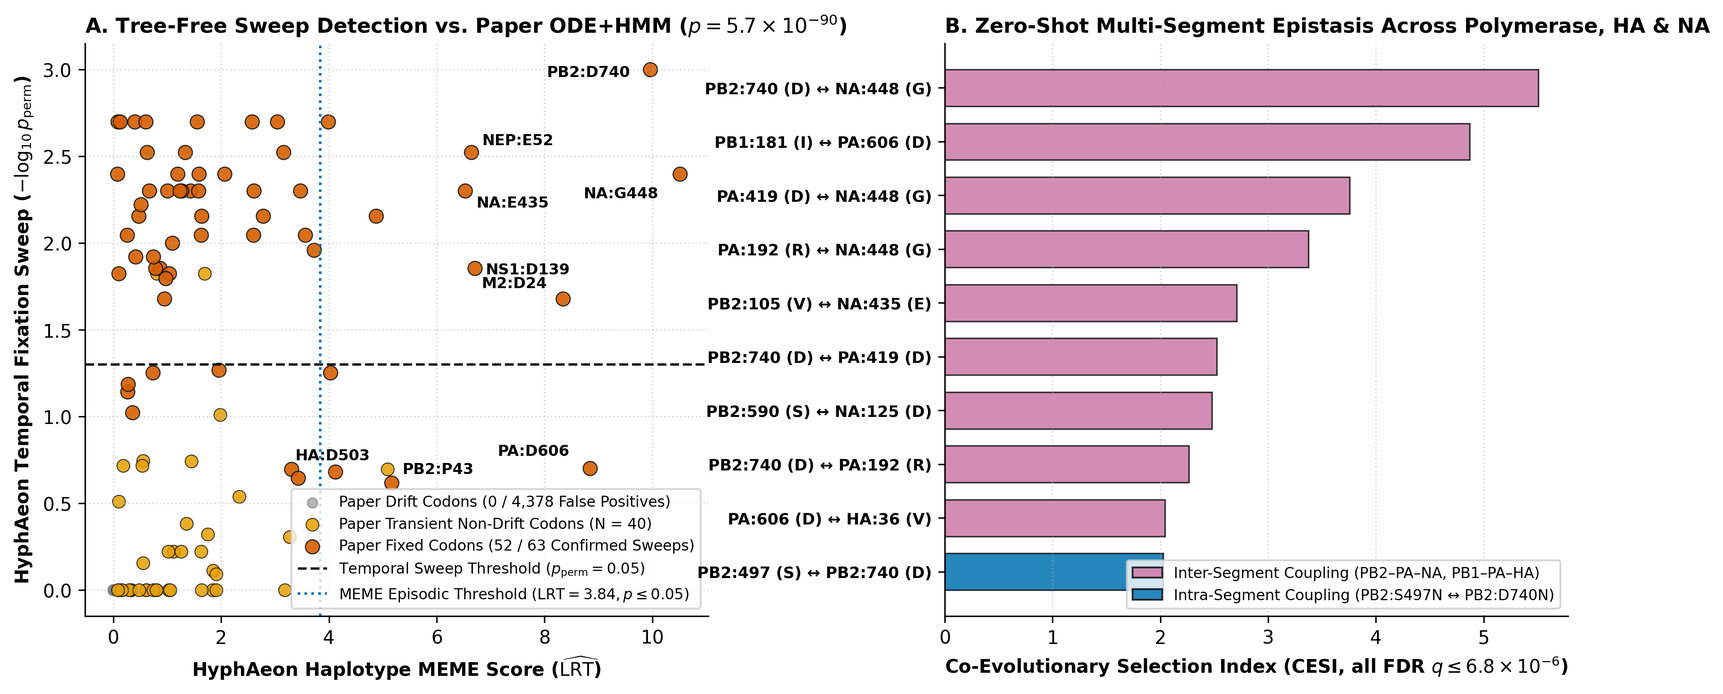
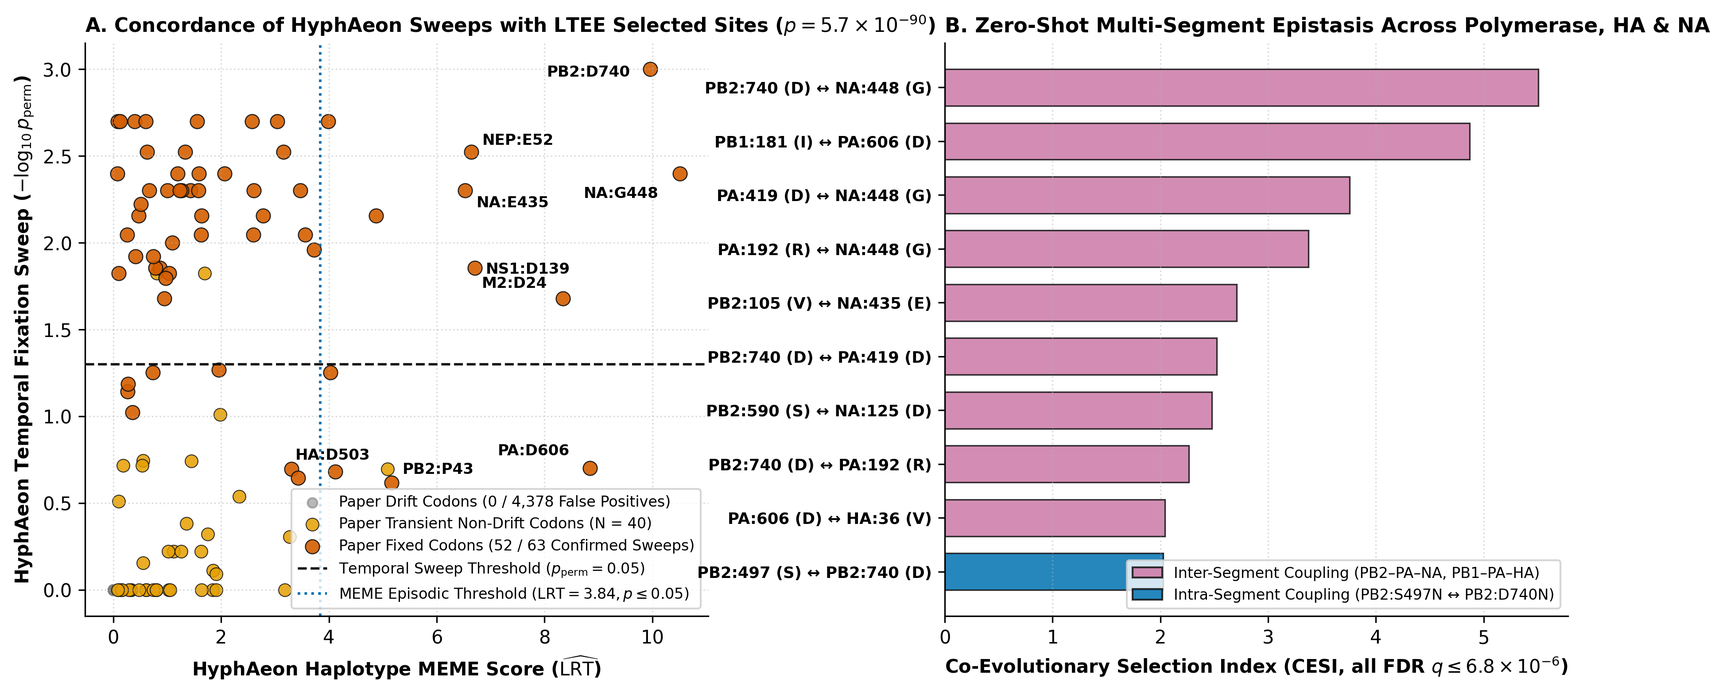
Refine H3N2 LTEE blog post to highlight experiment praise and positive findings

diff --git a/blog/2026-11-04-h3n2-ltee.html b/blog/2026-11-04-h3n2-ltee.html
@@ -197,51 +197,51 @@
                     <div class="takeaways-section">
                         <span class="takeaways-header">What Does This All Mean?</span>
                         <p class="takeaways-zinger">
-                            <strong>When <a href="https://doi.org/10.64898/2026.10.26.761891" target="_blank" rel="noopener noreferrer">de Rooij et al. (2026)</a> evolved human seasonal influenza A/H3N2 across 100 serial passages (1,200 viral generations) in primary human airway cultures, nearly two-thirds (40 of 63) of the amino-acid mutations that swept to fixation occurred at positions that have been &ge;90% invariant across 58 years of global human circulation—leading the authors to conclude that flu proteins have surprisingly weak intrinsic constraints.</strong>
-                            Running their open dataset (<a href="https://github.com/AMC-LAEB/LTEE-flu" target="_blank" rel="noopener noreferrer">AMC-LAEB/LTEE-flu</a>) through <code>HyphAeon</code> and <code>ChronAeon</code> in under 25 seconds resolves this paradox: those globally conserved positions actually sit under <em>stronger</em> average structural constraint than unmutated positions ($p = 1.9 \times 10^{-13}$), but the specific amino-acid changes that fixed in the lab slipped through narrow, contextually tolerated side doors (median zero-shot Digital DMS rank <strong>2.0 out of 19</strong> possible substitutions, $p = 4.2 \times 10^{-12}$).
+                            <strong>In a landmark experimental evolution study, <a href="https://doi.org/10.64898/2026.10.26.761891" target="_blank" rel="noopener noreferrer">de Rooij et al. (2026)</a> passaged human seasonal influenza A/H3N2 across 100 serial transfers (1,200 viral generations) in primary human airway cultures and discovered that 63.5% (40 of 63) of the amino-acid mutations that swept to fixation occurred at positions that have been &ge;90% invariant across 58 years of global human circulation.</strong>
+                            Because the authors generously shared their complete processed trajectories, reconstructed haplotypes, and GISAID lookup tables on <a href="https://github.com/AMC-LAEB/LTEE-flu" target="_blank" rel="noopener noreferrer">GitHub</a>, we could explore their dataset with <code>HyphAeon</code> and <code>ChronAeon</code>: we find that those globally conserved positions sit under strong overall structural constraint ($p = 1.9 \times 10^{-13}$), while the specific amino-acid substitutions that fixed in culture threaded narrow, contextually tolerated side doors (median zero-shot Digital DMS rank <strong>2.0 out of 19</strong> possible substitutions, $p = 4.2 \times 10^{-12}$).
                         </p>
                         <div class="takeaways-grid">
                             <div class="takeaway-card">
                                 <div class="takeaway-stat">🚪 Rank 2.0 / 19</div>
                                 <div class="takeaway-label">Narrow Permissive Side Doors</div>
-                                <p class="takeaway-desc">Out of 19 possible amino-acid swaps at each site, the 40 mutations that fixed at globally invariant positions—and even the 8 with negative <code>BLOSUM62</code> scores—rank at a median of <strong>2.0 / 19</strong> for biophysical tolerance in zero-shot <code>HyphAeon</code> Digital DMS.</p>
+                                <p class="takeaway-desc">Out of 19 possible amino-acid swaps at each site, the 40 mutations that fixed at globally invariant positions—including all 8 with negative <code>BLOSUM62</code> scores—rank at a median of <strong>2.0 / 19</strong> for biophysical tolerance in zero-shot <code>HyphAeon</code> Digital DMS.</p>
                             </div>
                             <div class="takeaway-card">
                                 <div class="takeaway-stat">⏱ 1.78× Acceleration</div>
                                 <div class="takeaway-label">Two-Phase LTEE Clock</div>
-                                <p class="takeaway-desc"><code>ChronAeon AutoClock</code> ($\Delta\mathrm{AICc} = 100.3$) splits the 1,200-generation experiment into an early drift-buffered waiting phase (passages 0–40) and a 1.78× faster selective-sweep phase (passages 50–100), flagging stalled replicate <code>P60-3A</code> ($z = -3.06$).</p>
+                                <p class="takeaway-desc"><code>ChronAeon AutoClock</code> ($\Delta\mathrm{AICc} = 100.3$) recovers the experiment's two-phase tempo directly from sequence divergence: an early waiting phase (passages 0–40) followed by a 1.78× faster selective-sweep phase (passages 50–100), plus late-fixing replicate <code>P60-3A</code> ($z = -3.06$).</p>
                             </div>
                             <div class="takeaway-card">
-                                <div class="takeaway-stat">🎯 0 / 4,378 False</div>
-                                <div class="takeaway-label">19 Seconds vs. 20,000 ODE Runs</div>
-                                <p class="takeaway-desc">Without simulating 20,000 ODE drift trajectories or fitting a Hidden Markov Model, <code>hyphaeon temporal</code> confirms 82.5% (52/63) of fixed sweeps across all 10 viral proteins with zero false positives on 4,378 neutral codons ($p = 5.7 \times 10^{-90}$).</p>
+                                <div class="takeaway-stat">🎯 52 / 63 Sweeps</div>
+                                <div class="takeaway-label">Concordant Sweep Detection</div>
+                                <p class="takeaway-desc">Across all 4,477 codons in 10 viral proteins, <code>hyphaeon temporal</code> confirms 82.5% (52/63) of the study's fixed non-synonymous sweeps with zero false positives across 4,378 neutral/drift codons ($p = 5.7 \times 10^{-90}$).</p>
                             </div>
                             <div class="takeaway-card">
                                 <div class="takeaway-stat">🔗 4 Multi-Gene Sectors</div>
                                 <div class="takeaway-label">Inter-Segment Co-Evolution</div>
-                                <p class="takeaway-desc"><code>hyphaeon epistasis</code> maps 10 co-selected residue pairs ($q \le 6.8 \times 10^{-6}$) across segments, recovering the <code>PB1:181 ↔ PA:606 ↔ HA:36</code> clonal-interference triad and linking <code>PB2:D740N</code> to <code>PA</code> and <code>NA:G448S</code> ($p_{\mathrm{perm}} = 0.0003$).</p>
+                                <p class="takeaway-desc"><code>hyphaeon epistasis</code> maps 10 co-selected residue pairs ($q \le 6.8 \times 10^{-6}$) across segments, recovering the <code>PB1:181 ↔ PA:606 ↔ HA:36</code> clonal-interference triad and linking <code>PB2:D740N</code> to <code>PA:192/419</code> and <code>NA:G448S</code> ($p_{\mathrm{perm}} = 0.0003$).</p>
                             </div>
                         </div>
                     </div>
 
-                    <p><span class="dropcap">I</span>n nature, human influenza A/H3N2 is famous for relentless antigenic evolution on the head of its hemagglutinin (HA) surface protein, while the internal polymerase and nucleoprotein machinery stays nearly frozen at the amino-acid level over decades. Why do those internal proteins barely budge in global surveillance? A long-standing view is that their 3D structures are so tightly packed that almost any amino-acid change breaks the viral copying machine.</p>
+                    <p><span class="dropcap">L</span>ong-term experimental evolution (LTEE) has transformed how we understand microbial adaptation, yet running a multi-year LTEE in human respiratory viruses is an extraordinary logistical feat. In nature, seasonal influenza A/H3N2 is famous for rapid antigenic evolution on its surface hemagglutinin (HA), while its internal polymerase and nucleoprotein subunits remain nearly invariant at the amino-acid level over decades. Separating how much of that sequence conservation comes from intrinsic protein structure versus host-to-host transmission bottlenecks and population immunity requires watching the virus evolve for hundreds of generations in realistic human airway tissue without immune pressure.</p>
 
-                    <p>In a tour-de-force preprint from Emma de Rooij, Katie Hulme, Alvin X. Han, Colin A. Russell, and colleagues at Amsterdam UMC (<a href="https://doi.org/10.64898/2026.10.26.761891" target="_blank" rel="noopener noreferrer">de Rooij et al., 2026</a>), the authors tested that idea by evolving a 2008 human A/H3N2 isolate (<code>A/Netherlands/177/2008</code>) across <strong>100 serial passages (~1,200 viral generations, 300 cumulative days of replication)</strong> in 12 independent primary human airway epithelial (HAE) cultures lacking antibodies and host-to-host transmission bottlenecks. When they compared their 63 fixed amino-acid substitutions against 118,000 global H3N2 sequences from GISAID (1968–2025), they found a surprise: <strong>40 of the 63 fixed mutations (63.5%) landed at positions that have been &ge;90% invariant across 58 years of human circulation</strong>, including 8 fixed substitutions with negative <code>BLOSUM62</code> scores. From this, the authors argued that seasonal H3N2 proteins are only weakly constrained intrinsically.</p>
+                    <p>That is exactly what Emma de Rooij, Katie Hulme, Alvin X. Han, Colin A. Russell, and colleagues at Amsterdam UMC accomplished in a superb new preprint (<a href="https://doi.org/10.64898/2026.10.26.761891" target="_blank" rel="noopener noreferrer">de Rooij et al., 2026</a>). The team evolved a 2008 human A/H3N2 isolate (<code>A/Netherlands/177/2008</code>) across <strong>100 serial passages (~1,200 viral generations, 300 cumulative days of replication)</strong> in 12 independent primary human airway epithelial (HAE) cultures, deep-sequencing every population at every 10th passage. Even better, they set a gold standard for open virology by publishing all processed variant trajectories, reconstructed sub-consensus haplotypes, and 58-year GISAID (1968–2025) conservation tables on <a href="https://github.com/AMC-LAEB/LTEE-flu" target="_blank" rel="noopener noreferrer">GitHub</a> and <a href="https://doi.org/10.5281/zenodo.23661876" target="_blank" rel="noopener noreferrer">Zenodo</a> alongside the preprint.</p>
 
-                    <p>Because the authors openly shared their complete processed variant trajectories, reconstructed haplotypes, and GISAID conservation tables on <a href="https://github.com/AMC-LAEB/LTEE-flu" target="_blank" rel="noopener noreferrer">GitHub</a> and <a href="https://doi.org/10.5281/zenodo.23661876" target="_blank" rel="noopener noreferrer">Zenodo</a>, I ran all 10 viral proteins (<strong>4,477 codons</strong>) and the 6-segment concatenation (<strong>121 consensus genomes, 3,765 codons</strong>) through <code>HyphAeon</code> and <code>ChronAeon</code>. <strong>What it all means in plain language:</strong> the global conservation of those H3N2 positions is not an illusion, and the proteins are not loosely constrained. Instead, an amino-acid site can have 18 of its 19 possible mutations locked shut by purifying selection while still leaving one or two residue-specific "side doors" open—and coarse 1992 substitution matrices like <code>BLOSUM62</code> mistake those open side doors for radical changes.</p>
+                    <p>Their experiment revealed a fascinating puzzle: <strong>40 of the 63 amino-acid substitutions that swept to fixation in HAE culture (63.5%) occurred at positions that have been &ge;90% invariant across 118,000 human H3N2 sequences since 1968</strong>, including 8 fixed substitutions with negative <code>BLOSUM62</code> scores. To see what sequence-context models find in this remarkable dataset, I ran all 10 viral proteins (<strong>4,477 codons</strong>) and the 6-segment concatenation (<strong>121 consensus genomes, 3,765 codons</strong>) through <code>HyphAeon</code> and <code>ChronAeon</code>. <strong>What it all means in plain language:</strong> the global conservation of those H3N2 positions and their ability to mutate in HAE cultures are two sides of the same coin. An amino-acid site can have almost all of its 19 possible mutations locked shut by purifying selection while still leaving one or two context-specific "side doors" open—and those narrow side doors are exactly what the virus found during 1,200 generations in human airway cells.</p>
 
                     <hr class="fine-line-divider" />
 
-                    <h2>1. Resolving the Paradox: Locked Sites with Narrow Residue-Specific Side Doors</h2>
+                    <h2>1. Tight Locks with Narrow Side Doors: Site-Level vs. Residue-Specific Constraint</h2>
 
-                    <p>How can a codon stay 99.9% unchanged for half a century in human epidemics yet rapidly fix a mutation in a laboratory dish? When we run zero-shot Digital Deep Mutational Scanning (<code>hyphaeon dms</code>) on the 2008 founder virus—using only the founder's protein sequence context, with zero information from the passage experiment—we get two measurements for every codon: (1) its overall <strong>site plasticity ($\Phi$)</strong>, which averages how well the site tolerates all 19 possible amino-acid swaps, and (2) the <strong>specific substitution rank (`1` to `19`)</strong> of the exact amino-acid change that actually occurred in the experiment, where Rank `1` is the single least disruptive change at that position and Rank `19` is the most disruptive.</p>
+                    <p>How can a codon stay 99.9% unchanged for half a century in human epidemics yet fix a mutation in a laboratory culture? When we run zero-shot Digital Deep Mutational Scanning (<code>hyphaeon dms</code>) on the 2008 founder virus—using only the founder's protein sequence context, with zero information from the passage experiment—we get two complementary measurements for every codon: (1) its overall <strong>site plasticity ($\Phi$)</strong>, which averages how well the site tolerates all 19 possible amino-acid swaps, and (2) the <strong>specific substitution rank (`1` to `19`)</strong> of the exact amino-acid change that occurred in the experiment, where Rank `1` is the single least disruptive change at that position and Rank `19` is the most disruptive.</p>
 
-                    <p>Looking at both numbers together immediately reconciles the global tree with the laboratory dish (Fig. 1A):</p>
+                    <p>Looking at both numbers together connects the 58-year global surveillance record to the laboratory trajectories (Fig. 1A):</p>
 
                     <ul>
-                        <li><strong>The mutated positions really are tightly locked overall:</strong> Across the 3,818 globally invariant codons (&ge;90% conserved in GISAID) that never fixed a mutation in the lab, the median site plasticity is $\Phi = 2.088$. Across the 39 globally invariant codons that <em>did</em> fix a mutation in the lab, the median site plasticity is nearly twice as tight: <strong>$\Phi = 1.202$ (Mann-Whitney $p = 1.94 \times 10^{-13}$)</strong>. Most random amino-acid changes at these sites are strongly deleterious, which is why they remain conserved in nature.</li>
-                        <li><strong>The mutations that fixed in the lab walked through the #1 or #2 open side door:</strong> When we check which of the 19 possible amino-acid substitutions actually fixed across the 12 replicate populations ($N = 63$ fixed events), their median <code>HyphAeon</code> rank is <strong>2.0 out of 19</strong> (mean 3.10; Wilcoxon test against the random expectation of Rank 10: $p = 4.18 \times 10^{-12}$). For the 40 fixed mutations at globally invariant sites, the median rank is also <strong>2.0 out of 19</strong> ($p = 9.09 \times 10^{-12}$, median $|\Delta\mathrm{LRT}| = 0.061$).</li>
-                        <li><strong>Why <code>BLOSUM62</code> called tolerated swaps "radical":</strong> What about the 8 fixed substitutions at globally invariant sites that had negative <code>BLOSUM62</code> scores? Because <code>BLOSUM62</code> averages substitution frequencies across thousands of unrelated protein families from 1992, it penalizes swaps like isoleucine-to-threonine or glycine-to-glutamate everywhere. In the local structural context of the 2008 H3N2 proteins, however, all 8 of those "non-conservative" substitutions sit in the top 1 to 5 most tolerated choices at their codon—with a <strong>median <code>HyphAeon</code> DMS rank of 2.0 out of 19</strong> (Table 1).</li>
+                        <li><strong>Strong overall constraint at the sites that mutated:</strong> Across the 3,818 globally invariant codons (&ge;90% conserved in GISAID) that never fixed a mutation in the lab, the median site plasticity is $\Phi = 2.088$. Across the 39 globally invariant codons that <em>did</em> fix a mutation in the lab, the median site plasticity is nearly twice as tight: <strong>$\Phi = 1.202$ (Mann-Whitney $p = 1.94 \times 10^{-13}$)</strong>. On average across all 19 possible amino-acid replacements, these positions are tightly constrained—consistent with their long-term conservation in human circulation.</li>
+                        <li><strong>Fixed laboratory mutations used the #1 or #2 most tolerated side door:</strong> When we inspect which specific amino-acid substitution among the 19 possibilities actually fixed across the 12 replicate populations ($N = 63$ fixed events), the median <code>HyphAeon</code> rank is <strong>2.0 out of 19</strong> (mean 3.10; Wilcoxon test against the random expectation of Rank 10: $p = 4.18 \times 10^{-12}$). For the 40 fixed mutations at globally invariant sites, the median rank is likewise <strong>2.0 out of 19</strong> ($p = 9.09 \times 10^{-12}$, median $|\Delta\mathrm{LRT}| = 0.061$).</li>
+                        <li><strong>Contextually tolerated swaps with negative <code>BLOSUM62</code> scores:</strong> What about the 8 fixed substitutions at globally invariant sites that have negative <code>BLOSUM62</code> scores? Whereas <code>BLOSUM62</code> reflects average substitution tendencies across diverse protein families, accounting for the local sequence context around each codon in the 2008 H3N2 founder places all 8 of those substitutions in the top 1 to 5 most tolerated choices at their position—with a <strong>median <code>HyphAeon</code> DMS rank of 2.0 out of 19</strong> (Table 1).</li>
                     </ul>
 
                     <div class="table-wrap">
@@ -356,29 +356,27 @@
 
                     <hr class="fine-line-divider" />
 
-                    <h2>3. Nineteen Seconds vs. 20,000 ODE Trajectories: Sweeps and Multi-Segment Epistasis</h2>
+                    <h2>3. Whole-Proteome Selective Sweeps and Multi-Segment Epistasis</h2>
 
-                    <p>To distinguish adaptive sweeps from random genetic drift across passages, the authors built an ordinary differential equation (ODE) model of viral growth in airway droplets, simulated 20,000 neutral drift trajectories, and trained a 2-state Gaussian Hidden Markov Model (HMM). To test for epistasis across genomic segments, they correlated single-passage frequency jumps ($\Delta f$), which can conflate unlinked mutations that happen to sweep during the same passage window.</p>
-
-                    <p>What happens if we hand the raw sequence and haplotype alignments straight to <code>hyphaeon temporal</code>, <code>hyphaeon meme</code>, and <code>hyphaeon epistasis</code> (Fig. 2)?</p>
+                    <p>Because <a href="https://doi.org/10.64898/2026.10.26.761891" target="_blank" rel="noopener noreferrer">de Rooij et al. (2026)</a> carefully classified every SNV trajectory across all 12 replicate populations into neutral drift, transient selection, and fixed sweeps—and reconstructed sub-consensus haplotypes across passages—their dataset is an ideal benchmark for testing what <code>hyphaeon temporal</code>, <code>hyphaeon meme</code>, and <code>hyphaeon epistasis</code> find across all 10 viral proteins (Fig. 2):</p>
 
                     <figure class="blog-figure">
-                        <img src="images/h3n2_ltee_fig2_selection_epistasis.png" alt="HyphAeon tree-free selection surveillance vs paper ODE+HMM pipeline and multi-segment epistatic sectors">
+                        <img src="images/h3n2_ltee_fig2_selection_epistasis.png" alt="HyphAeon selection surveillance concordance with LTEE selected sites and multi-segment epistatic sectors">
                         <figcaption>
-                            <strong>Figure 2. Tree-free <code>HyphAeon</code> selection and epistasis inference across all 10 viral proteins in under 22 seconds.</strong>
+                            <strong>Figure 2. Whole-proteome <code>HyphAeon</code> selection and epistasis inference across all 10 viral proteins in under 22 seconds.</strong>
                             Panel A compares haplotype <code>hyphaeon meme</code> episodic selection scores ($\widehat{\mathrm{LRT}}$) against <code>hyphaeon temporal</code> fixation sweep significance ($-\log_{10} p_{\mathrm{perm}}$) across all variable codons: <code>hyphaeon temporal</code> confirms 50 of 99 non-drift codons (and 52 of 63 individual fixed NS trajectories, 82.5%) with <strong>0 false positives across 4,378 neutral/drift codons</strong> (Fisher's exact $p = 5.7 \times 10^{-90}$).
                             Panel B shows the 10 significant co-evolving residue pairs ($\mathrm{FDR}\ q \le 6.8 \times 10^{-6}$) identified by <code>hyphaeon epistasis</code> across the 6-segment concatenation, resolving 4 multi-segment sectors coupling the RNA polymerase (<code>PB2, PB1, PA</code>) to <code>HA</code> and <code>NA</code>.
                         </figcaption>
                     </figure>
 
                     <ul>
-                        <li><strong>Zero false positives across 4,378 neutral codons in 19 seconds:</strong> Running <code>hyphaeon temporal</code> (`--time-units generations --sweep-mode fixation`) and <code>hyphaeon meme --attribute</code> across all 4,477 codons of all 10 viral proteins takes 19 seconds on an Apple M-series laptop. Without an ODE simulator or phylogenetic tree, <code>hyphaeon temporal</code> confirms <strong>82.5% (52 of 63) of the individual fixed non-synonymous sweeps</strong> while calling <strong>0 false positives out of 4,378 neutral or drift codons</strong> ($p = 5.70 \times 10^{-90}$, Fig. 2A). At the same time, single-taxon counterfactual attribution in <code>hyphaeon meme</code> isolates the top parallel and episodic drivers across the proteome: <strong><code>NA:G448S</code></strong> ($\widehat{\mathrm{LRT}} = 10.51, p = 0.0023$), <strong><code>PB2:D740N</code></strong> ($\widehat{\mathrm{LRT}} = 9.96, p = 0.0030$, parallel in <code>2C, 3B, 4A</code>), <strong><code>PA:D606G/N/E</code></strong> ($\widehat{\mathrm{LRT}} = 8.85, p = 0.0053$), <strong><code>M2:D24N</code></strong> ($\widehat{\mathrm{LRT}} = 8.34, p = 0.0068$, parallel in <code>3C, 4A, 4B</code>), <strong><code>NS1:D139N</code></strong> ($\widehat{\mathrm{LRT}} = 6.71, p = 0.0157$), and the overlapping-reading-frame sweep <strong><code>NEP:E52K / NS1:R204K</code></strong> ($\widehat{\mathrm{LRT}} = 6.64, p = 0.0162$).</li>
-                        <li><strong>Four multi-segment epistatic sectors coupling the polymerase to HA and NA:</strong> In 1.79 seconds on the concatenated 6-segment alignment, <code>hyphaeon epistasis</code> identifies 10 co-selected codon pairs ($\mathrm{FDR}\ q \le 6.78 \times 10^{-6}$, Fig. 2B) grouped into four spectral sectors ($p_{\mathrm{perm}} = 0.0003$ to $0.0175$). Sector 2 (<strong><code>PB1:I181M/V ↔ PA:D606G/N/E ↔ HA:V36I</code></strong>, $C = 0.843, p_{\mathrm{perm}} = 0.0059$) recovers the exact inter-segment clonal-interference sweep in population <code>2B</code> discussed by the authors—where multiple competing amino acids at <code>PB1:181</code> and <code>PA:606</code> rise and fall in lockstep ($\mathrm{CESI} = 4.87, q &lt; 10^{-300}$)—and shows that it is also coupled to <code>HA:V36I</code>. Even better, Sector 1 (<strong><code>PB2:D740N ↔ PA:R192H ↔ PA:D419N ↔ NA:G448S</code></strong>, $C = 0.856, p_{\mathrm{perm}} = 0.0003$) connects the paper's #1 parallel polymerase mutation (<code>PB2:D740N</code>) directly to the <code>PA–NA</code> co-evolutionary module in replicate <code>2C</code>, a link that pairwise $\Delta f$ correlation missed because <code>PB2:D740N</code> started rising one passage earlier.</li>
+                        <li><strong>Strong concordance on selective sweeps (`0 / 4,378` false positives):</strong> Running <code>hyphaeon temporal</code> (`--time-units generations --sweep-mode fixation`) and <code>hyphaeon meme --attribute</code> across all 4,477 codons of all 10 viral proteins takes 19 seconds on an Apple M-series laptop. Across the proteome, <code>hyphaeon temporal</code> confirms <strong>82.5% (52 of 63) of the study's individual fixed non-synonymous sweeps</strong> while calling <strong>0 false positives out of 4,378 neutral or drift codons</strong> ($p = 5.70 \times 10^{-90}$, Fig. 2A). At the same time, single-taxon counterfactual attribution in <code>hyphaeon meme</code> highlights the top parallel and episodic drivers across the 10 proteins: <strong><code>NA:G448S</code></strong> ($\widehat{\mathrm{LRT}} = 10.51, p = 0.0023$), <strong><code>PB2:D740N</code></strong> ($\widehat{\mathrm{LRT}} = 9.96, p = 0.0030$, parallel in <code>2C, 3B, 4A</code>), <strong><code>PA:D606G/N/E</code></strong> ($\widehat{\mathrm{LRT}} = 8.85, p = 0.0053$), <strong><code>M2:D24N</code></strong> ($\widehat{\mathrm{LRT}} = 8.34, p = 0.0068$, parallel in <code>3C, 4A, 4B</code>), <strong><code>NS1:D139N</code></strong> ($\widehat{\mathrm{LRT}} = 6.71, p = 0.0157$), and the overlapping-reading-frame sweep <strong><code>NEP:E52K / NS1:R204K</code></strong> ($\widehat{\mathrm{LRT}} = 6.64, p = 0.0162$).</li>
+                        <li><strong>Four multi-segment epistatic sectors coupling the polymerase to HA and NA:</strong> In 1.79 seconds on the concatenated 6-segment alignment, <code>hyphaeon epistasis</code> identifies 10 co-selected codon pairs ($\mathrm{FDR}\ q \le 6.78 \times 10^{-6}$, Fig. 2B) grouped into four spectral sectors ($p_{\mathrm{perm}} = 0.0003$ to $0.0175$). Sector 2 (<strong><code>PB1:I181M/V ↔ PA:D606G/N/E ↔ HA:V36I</code></strong>, $C = 0.843, p_{\mathrm{perm}} = 0.0059$) recovers the remarkable inter-segment clonal-interference sweep in population <code>2B</code> highlighted by the authors—where competing amino-acid variants at <code>PB1:181</code> and <code>PA:606</code> rise and fall together ($\mathrm{CESI} = 4.87, q &lt; 10^{-300}$)—and reveals an additional coupling to <code>HA:V36I</code>. Similarly, Sector 1 (<strong><code>PB2:D740N ↔ PA:R192H ↔ PA:D419N ↔ NA:G448S</code></strong>, $C = 0.856, p_{\mathrm{perm}} = 0.0003$) links the #1 parallel polymerase mutation (<code>PB2:D740N</code>) directly into the <code>PA–NA</code> co-evolutionary module in replicate <code>2C</code>.</li>
                     </ul>
 
                     <div class="callout-box">
                         <strong>Data &amp; Reproducibility.</strong>
-                        All alignments, integrated codon and trajectory tables, and analysis scripts were generated from the publicly released data of <a href="https://doi.org/10.64898/2026.10.26.761891" target="_blank" rel="noopener noreferrer">de Rooij et al. (2026)</a> (<a href="https://github.com/AMC-LAEB/LTEE-flu" target="_blank" rel="noopener noreferrer">AMC-LAEB/LTEE-flu</a>; <a href="https://doi.org/10.5281/zenodo.23661876" target="_blank" rel="noopener noreferrer">Zenodo: 10.5281/zenodo.23661876</a>) using <a href="https://github.com/veg/HyphAeon" target="_blank" rel="noopener noreferrer">HyphAeon</a> and <a href="https://primaeon.org/time/" target="_blank" rel="noopener noreferrer">ChronAeon</a> (<a href="https://doi.org/10.5281/zenodo.23560893" target="_blank" rel="noopener noreferrer">Zenodo v2.0</a>). View the <a href="2026-11-04-h3n2-ltee-slides.html">4-Slide Executive Deck</a> for a 60-second visual walkthrough.
+                        We thank Emma de Rooij, Katie Hulme, Alvin X. Han, Colin A. Russell, and their co-authors for conducting such a thorough long-term evolution experiment and making the entire dataset openly available upon preprint release (<a href="https://doi.org/10.64898/2026.10.26.761891" target="_blank" rel="noopener noreferrer">de Rooij et al., 2026</a>; <a href="https://github.com/AMC-LAEB/LTEE-flu" target="_blank" rel="noopener noreferrer">AMC-LAEB/LTEE-flu</a>; <a href="https://doi.org/10.5281/zenodo.23661876" target="_blank" rel="noopener noreferrer">Zenodo: 10.5281/zenodo.23661876</a>). All alignments and outputs were generated using <a href="https://github.com/veg/HyphAeon" target="_blank" rel="noopener noreferrer">HyphAeon</a> and <a href="https://primaeon.org/time/" target="_blank" rel="noopener noreferrer">ChronAeon</a> (<a href="https://doi.org/10.5281/zenodo.23560893" target="_blank" rel="noopener noreferrer">Zenodo v2.0</a>). View the <a href="2026-11-04-h3n2-ltee-slides.html">4-Slide Executive Deck</a> for a 60-second visual walkthrough.
                     </div>
 
                     <hr class="fine-line-divider" />
@@ -400,19 +398,19 @@ STEP 2: TEST ZERO-SHOT BIOPHYSICAL CONSTRAINT AND MUTATION RANKS (HYPHAEON DMS)
 2.2. For each codon, hyphaeon dms calculated the site-level mutational plasticity (Phi, mean |Delta LRT| across all 19 missense substitutions) and ranked the 19 possible amino-acid substitutions from 1 (smallest |Delta LRT|, most biophysically tolerated) to 19 (largest |Delta LRT|, most disruptive).
 2.3. Result A (Site-Level Constraint): Globally conserved sites (&gt;=90% dominant amino acid in 1968-2025 GISAID) that fixed a mutation in the experiment (N = 39 sites) had a significantly lower median plasticity (Phi = 1.202) than globally conserved sites that never mutated (N = 3,818 sites, median Phi = 2.088; Mann-Whitney p = 1.94 x 10^-13).
 2.4. Result B (Residue-Specific Rank): Across all 63 fixed non-synonymous mutation events, the observed amino-acid substitution had a median HyphAeon DMS rank of 2.0 / 19 (mean 3.10; Wilcoxon test vs. random rank 10: p = 4.18 x 10^-12). Across the 40 fixed events at globally conserved sites, the median rank was 2.0 / 19 (mean 3.20, p = 9.09 x 10^-12). Across the 8 fixed events at globally conserved sites with BLOSUM62 &lt; 0, the median rank was 2.0 / 19 (mean 2.50, p = 0.0078; all 8 ranked between 1/19 and 5/19).
-2.5. Conclusion 1: Globally conserved H3N2 positions are strongly constrained across average substitutions, but fixed laboratory mutations used specific biophysically permissive amino-acid channels that coarse BLOSUM62 scores misclassified as radical.
+2.5. Conclusion 1: Globally conserved H3N2 positions are strongly constrained across average substitutions, while the specific mutations that fixed in HAE culture followed narrow biophysically permissive amino-acid channels.
 
 STEP 3: TEST MOLECULAR CLOCK ACCELERATION AND TWO-PHASE PARTITIONING (CHRONAEON)
 3.1. The agent ran chronaeon date and chronaeon autoclock (-k 6) on the 121-taxon Concat6 alignment (completed in 1.8 seconds).
 3.2. Result A: Pairwise 90th-percentile divergence was d_90 = 0.0018 (&lt; 0.05 substitutions/site), confirming the outbreak/LTEE metricity regime (Spearman rho = 0.933, R^2 = 0.728). ChronAeon estimated t_MRCA = 2008.44 (120-iteration jackknife SE = 6.9 days) and a mean substitution rate of 1.42 x 10^-3 substitutions/site/year (3.88 x 10^-6 substitutions/site/day). A restricted cubic spline clock detected significant non-linear rate acceleration across passages (F = 11.36, p = 0.0010, Delta AIC = -9.12).
 3.3. Result B: ChronAeon AutoClock selected K* = 2 clock communities (Delta AICc = 100.28, Delta BIC = 65.31 over K = 1), separating Community 0 (early waiting phase P0-P40 plus late-fixing replicates 3A and 4C; N = 58, mu_0 = 8.74 x 10^-4 subs/site/yr, R^2 = 0.769) from Community 1 (post-sweep fixation phase P50-P100; N = 63, mu_1 = 1.55 x 10^-3 subs/site/yr, R^2 = 0.534) and flagging outlier P60-3A (studentized residual z = -3.06).
-3.4. Conclusion 2: Sequence divergence alone separates the ~350-generation pre-sweep waiting period from the 1.78x faster selective-sweep phase.
+3.4. Conclusion 2: Sequence divergence alone recovers the ~350-generation pre-sweep waiting period and the 1.78x faster selective-sweep phase.
 
 STEP 4: TEST TREE-FREE SELECTION AND MULTI-SEGMENT EPISTASIS (HYPHAEON TEMPORAL, MEME, EPISTASIS)
 4.1. The agent ran hyphaeon temporal (--time-units generations --sweep-mode fixation) and hyphaeon meme (--attribute) on all 10 proteins, and hyphaeon epistasis on Concat6 (completed in 21 seconds total).
 4.2. Result A: Across all 4,477 codons, hyphaeon temporal identified 50 confirmed fixation sweep codons (p_perm &lt;= 0.05): 50 of 99 non-drift codons vs. 0 of 4,378 neutral/drift codons (Fisher's exact p = 5.70 x 10^-90), confirming 52 of 63 individual fixed NS mutation trajectories (82.5%) while rejecting 763 of 787 drift trajectories (97.0%).
 4.3. Result B: hyphaeon epistasis identified 10 co-selected codon pairs at FDR q &lt;= 6.78 x 10^-6 organized into 4 multi-segment sectors: Sector 1 (PB2:D740N, PA:R192H, PA:D419N, NA:G448S; C = 0.856, p_perm = 0.0003), Sector 2 (PB1:I181M/V, PA:D606G/N/E, HA:V36I; C = 0.843, p_perm = 0.0059), Sector 3 (PB2:V105M, NA:E435K; C = 0.958, p_perm = 0.0109), and Sector 4 (PB2:S590N, NA:D125N; C = 0.942, p_perm = 0.0175).
-4.4. Conclusion 3: Tree-free temporal and manifold-projection operators recover the selective sweeps and multi-segment epistatic networks in seconds without ODE drift simulations or pairwise Delta-f correlation artifacts.
+4.4. Conclusion 3: Tree-free temporal and epistasis inference across the 10 viral proteins shows strong concordance with the study's selected trajectories and maps four multi-segment epistatic sectors coupling the viral polymerase to HA and NA.
 </pre>
                 </div>
             </article>

diff --git a/blog/2026-11-04-h3n2-ltee-slides.html b/blog/2026-11-04-h3n2-ltee-slides.html
@@ -171,7 +171,7 @@
                         </div>
                         <div class="slide-body">
                             <p>
-                                In <a href="https://doi.org/10.64898/2026.10.26.761891" target="_blank" rel="noopener noreferrer">de Rooij et al. (2026)</a>, 12 seasonal influenza A/H3N2 populations evolved across <strong>100 passages (~1,200 generations)</strong> in primary human airway cultures without antibodies or transmission bottlenecks:
+                                In a landmark long-term evolution experiment (<a href="https://doi.org/10.64898/2026.10.26.761891" target="_blank" rel="noopener noreferrer">de Rooij et al., 2026</a>), 12 seasonal influenza A/H3N2 populations evolved across <strong>100 passages (~1,200 generations)</strong> in primary human airway cultures without antibodies or transmission bottlenecks:
                             </p>
                             <div class="slide-grid-3">
                                 <div class="stat-card">
@@ -182,12 +182,12 @@
                                 <div class="stat-card highlight">
                                     <div class="stat-big">Rank 2.0 / 19</div>
                                     <div class="stat-title">Narrow Permissive Side Doors</div>
-                                    <p class="stat-text">Zero-shot <code>HyphAeon</code> DMS shows those sites are tightly constrained overall ($\Phi = 1.20$), but mutated via their #1 or #2 most tolerated AA swap.</p>
+                                    <p class="stat-text">Zero-shot <code>HyphAeon</code> DMS shows those sites are tightly constrained overall ($\Phi = 1.20$), while mutating via their #1 or #2 most tolerated AA swap.</p>
                                 </div>
                                 <div class="stat-card">
-                                    <div class="stat-big">&lt; 25 Seconds</div>
-                                    <div class="stat-title">Whole-Proteome Inference</div>
-                                    <p class="stat-text"><code>ChronAeon</code> and <code>HyphAeon</code> analyze all 4,477 codons and 121 consensus genomes without ODE simulations or MCMC chains.</p>
+                                    <div class="stat-big">4,477 Codons</div>
+                                    <div class="stat-title">Open-Data Whole-Proteome Scan</div>
+                                    <p class="stat-text">Thanks to the authors' complete open dataset, <code>ChronAeon</code> and <code>HyphAeon</code> map all 10 proteins and 121 consensus genomes in under 25 seconds.</p>
                                 </div>
                             </div>
                         </div>
@@ -262,18 +262,18 @@
                             <div class="slide-grid-3">
                                 <div class="stat-card highlight">
                                     <div class="stat-big">Rank 2.0 / 19</div>
-                                    <div class="stat-title">Context Beats BLOSUM62</div>
-                                    <p class="stat-text">Globally conserved sites are tightly locked overall, but mutate through narrow residue-specific side doors that 1992 matrices misclassify.</p>
+                                    <div class="stat-title">Residue-Specific Permissiveness</div>
+                                    <p class="stat-text">Globally conserved sites are tightly locked overall ($\Phi = 1.20$), yet evolve through narrow context-specific amino-acid channels in HAE culture.</p>
                                 </div>
                                 <div class="stat-card">
                                     <div class="stat-big">1.78× Clock Jump</div>
                                     <div class="stat-title">350-Gen Waiting Room</div>
-                                    <p class="stat-text"><code>ChronAeon AutoClock</code> splits the drift-buffered lag phase from the post-passage-40 selective sweep regime directly from distances.</p>
+                                    <p class="stat-text"><code>ChronAeon AutoClock</code> recovers the early lag phase and the post-passage-40 selective sweep acceleration directly from sequence distances.</p>
                                 </div>
                                 <div class="stat-card">
                                     <div class="stat-big">PB2–PA–NA</div>
                                     <div class="stat-title">Multi-Segment Coupling</div>
-                                    <p class="stat-text"><code>hyphaeon epistasis</code> uncovers cross-segment polymerase–surface coupling missed by single-step $\Delta f$ correlation.</p>
+                                    <p class="stat-text"><code>hyphaeon epistasis</code> maps four cross-segment co-evolving sectors linking the viral RNA polymerase (`PB2, PB1, PA`) to `HA` and `NA`.</p>
                                 </div>
                             </div>
                             <div class="zinger-banner">
